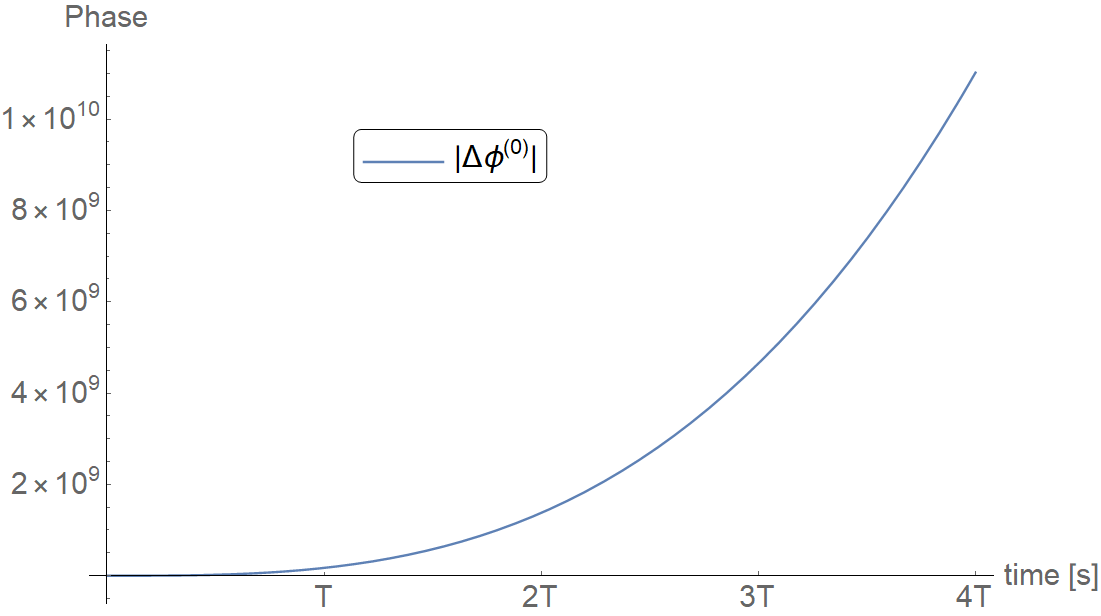
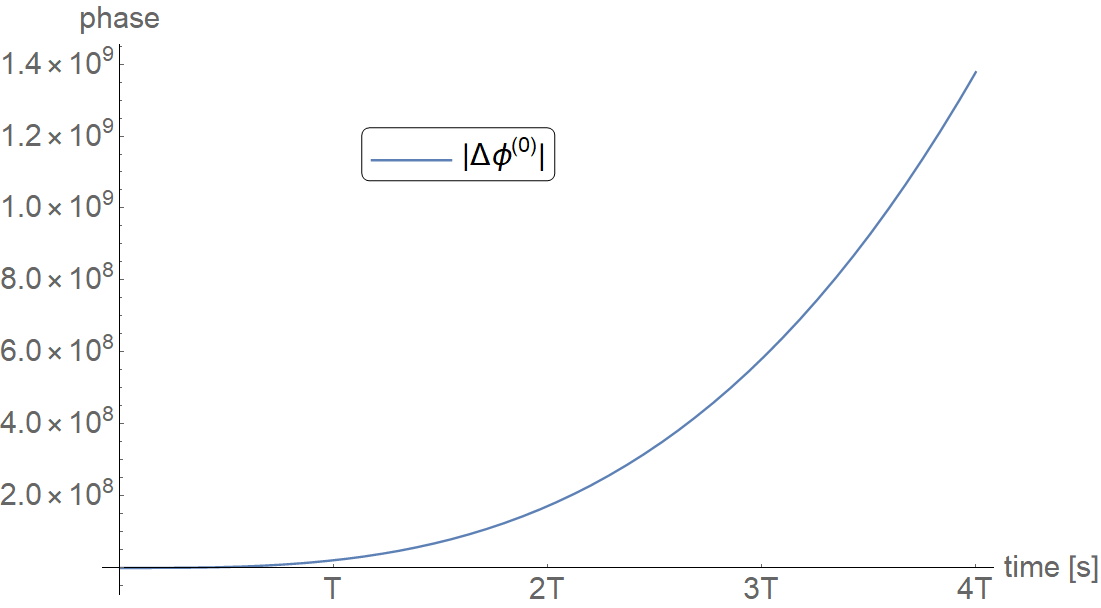
Fix order of magnitude 1st correction

diff --git a/main.tex b/main.tex
@@ -27,7 +27,7 @@
 {0pt}{3.25ex plus 1ex minus .2ex}{1.5ex plus .2ex}
 %%%%%%%%%%%%%%%%%%%%%%%%%%%%%%%%%%%%%%%%%%%%%%%%%%%
 
-\title{Gravimeter with Magnetic Gradient}
+\title{Gravimetry within a magnetic gradient field}
 \author{Edgar Zuniga}
 
 \begin{document}
@@ -696,7 +696,7 @@ These previous results can be cast into a more illuminating form by expanding th
 where we have used a super-index to indicate that these results correspond to the first-order correction.
 The comparison between the zeroth-order approximation and the first-order correction can be seen in Fig. \ref{phase_graph_first_order}.
 
-The correction given by the first-order approximation goes like $\beta ^2$. Therefore, the error made by considering the first-order approximation will be set by $\beta ^2$ which for the case of typical experimental values (see description of Fig. \ref{phase_graph_first_order}), has a value of $\beta ^2 \approx 1.3 \times 10^{-9}$. As we can see in the Fig. \ref{fig:gravimetry_signal_zeroth_order}, this gravimetry signal could allow us to measure $g$ with $10$ digits of precision, however, according to the Fig. \ref{fig:gravimetry_signal_first_minus_zeroth_order} the error due to the first-order correction would start affecting the seventh digit of the measurement. Therefore, in reality, we should be able to measure $g$ with $7$ digits of precision. This precision could be improved using a broader initial wave packet as can be seen in the definition \ref{beta_parameter}. For every order of magnitude that we increase the initial width of the wave packet, we gain $4$ digits of precision in the measurement because the correction goes like $\beta ^2$.
+The correction given by the first-order approximation goes like $\beta ^2$. Therefore, the error made by considering the first-order approximation will be set by $\beta ^2$ which for the case of typical experimental values (see description of Fig. \ref{phase_graph_first_order}), has a value of $\beta ^2 \approx 3.3 \times 10^{-10}$. As we can see in the Fig. \ref{fig:gravimetry_signal_zeroth_order}, this gravimetry signal could allow us to measure $g$ with $9$ digits of precision, however, according to the Fig. \ref{fig:gravimetry_signal_first_minus_zeroth_order} the error due to the first-order correction would start affecting the eighth digit of the measurement. Therefore, in reality, we should be able to measure $g$ with $8$ digits of precision. This precision is affected principally by the initial width of the wave packet as can be seen in the definition \ref{beta_parameter}. For every order of magnitude that we increase(decrease) the initial width of the wave packet, we gain(lose) $4$ digits of precision in the measurement because the correction goes like $\beta ^2$.
 
 \begin{figure}
      \centering
@@ -714,12 +714,9 @@ The correction given by the first-order approximation goes like $\beta ^2$. Ther
          \label{fig:gravimetry_signal_first_minus_zeroth_order}
      \end{subfigure}
      \hfill
-     \caption{Comparison of the gravimetry signal obtained by using the zeroth-order approximation ($\Delta \Phi ^{(0)}$) given by Eq. \ref{quantum_gravimetry_signal} versus the first-order correction ($\Delta \Phi ^{(1)}$) given by Eq. \ref{gravimetry_signal_first_order_approx_dimensional}. The period used to produce these graphs was $T=100ms$. Besides, we used $g=9.8m/s^{2}$, $\mu=9.27\times10^{-24} J/T$ (the Bohr magneton), $\eta=0.05 T/m$. Additionally, we consider $\ce{^{87}_{}Rb}$ atoms, so we have (\cite{Bunge1993}\cite{KAUSHALSK1970}) $M=1.45\times10^{-25}kg$, $\Delta W=2\pi\times6.835\times10^{9}s^{-1}$ ($\hbar \Delta W $ is the field-free ground state hyperfine energy splitting). Also, we use the approximations in Eqs. \ref{kappa_approx} and \ref{gamma_1_approx}. In addition, we take $p_{0}=0$, $z_{0}=0$, $\Delta Z(0)=1000\times10^{-6}m$, and take $z$ to be the final position of the center of the wave packet at the end of the experiment. The center of the wave packet was evaluated by using the Eq. \ref{xi_eq_motion}, where $x=\kappa z$. In this case, $(\sigma_{x, \tau_{0}})^{2} \approx 4.1 \times 10^{-8}$ and $\epsilon \tau \approx 1.5 \times 10^{-11} t$. Thus, for $t=100ms$, we have $\beta \approx 3.6 \times 10^{-5}$ and the expansion used in the Eqs. \ref{sigma_x_t1_first_order}-\ref{sigma_x_t3_first_order} is justified. Moreover, the gap between both approximations will be proportional to $\beta ^2 \approx 1.3 \times 10^{-9}$.}
+     \caption{Comparison of the gravimetry signal obtained by using the zeroth-order approximation ($\Delta \Phi ^{(0)}$) given by Eq. \ref{quantum_gravimetry_signal} versus the first-order correction ($\Delta \Phi ^{(1)}$) given by Eq. \ref{gravimetry_signal_first_order_approx_dimensional}. The period used to produce these graphs was $T=50ms$. Besides, we used $g=9.8m/s^{2}$, $\mu=9.27\times10^{-24} J/T$ (the Bohr magneton), $\eta=0.05 T/m$. Additionally, we consider $\ce{^{87}_{}Rb}$ atoms, so we have (\cite{Bunge1993}\cite{KAUSHALSK1970}) $M=1.45\times10^{-25}kg$, $\Delta W=2\pi\times6.835\times10^{9}s^{-1}$ ($\hbar \Delta W $ is the field-free ground state hyperfine energy splitting). Also, we use the approximations in Eqs. \ref{kappa_approx} and \ref{gamma_1_approx}. In addition, we take $p_{0}=0$, $z_{0}=0$, $\Delta Z(0)=1000\times10^{-6}m$, and take $z$ to be the final position of the center of the wave packet at the end of the experiment. The center of the wave packet was evaluated by using the Eq. \ref{xi_eq_motion}, where $x=\kappa z$. In this case, $(\sigma_{x, \tau_{0}})^{2} \approx 4.1 \times 10^{-8}$ and $\epsilon \tau \approx 1.5 \times 10^{-11} t$. Thus, for $t=50ms$, we have $\beta \approx 1.8 \times 10^{-5}$ and the expansion used in the Eqs. \ref{sigma_x_t1_first_order}-\ref{sigma_x_t3_first_order} is justified. Moreover, the gap between both approximations will be proportional to $\beta ^2 \approx 3.3 \times 10^{-10}$.}
      \label{phase_graph_first_order}
 \end{figure}
-
-
-
 
 
 \paragraph{Calculation of the Signal for Gravimetry in Momentum Space}
@@ -785,6 +782,39 @@ Thus, by using Eqs. \ref{epsilon}-\ref{q1_q2} and the approximations in Eqs. \re
 \end{equation}
 
 where were we have used $\tau\equiv \Delta W t$. We can notice that this result is independent of the momentum k and that it coincides with the result obtained in position space as expected.
+
+\subsubsection{A Revision to the Time Evolution of the Free Wave Packet}
+In this section we review the time evolution of a free gaussian wave packet. Then, we use this result to establish a correspondence with some terms of the wave packet of alkali-metal atoms subject to a constant gravitational field and interacting with a magnetic field given by Eq. \ref{wave_packet_non_dimensional_evolution}.
+
+We begin by considering a superposition of plane waves with different amplitudes, i.e.,
+
+\begin{equation}\label{free_wave_packet_momentum_space}
+    \Psi (x, t) =  \int_{- \infty}^{\infty} dk A(k) e^{i (kx-\omega t)}
+\end{equation}
+
+where $k$ is the wave number and the amplitude $A(k)$ is of the gaussian form
+
+\begin{equation}
+    A(k) = C e^{-\alpha(k-k_{0})^{2}/2}
+\end{equation}
+
+where $k_{0}$ is the center of the distribution and $C$ is a scale factor that we can use to adjust the amplitude of the wave packet. In order to compute the integral in Eq. \ref{free_wave_packet_momentum_space}, we need to establish the dependence between $\omega$ and $k$, i.e., the dispersion relation. We will consider the dispersion relation to be sharply peaked about $k=k_{0}$ and use a Taylor expansion about this point to second order, i.e.,
+
+\begin{equation}
+    \omega(k) = \omega(k_{0}) + (k-k_{0})\upsilon_{g} + \frac{1}{2}(k-k_{0})^{2} \beta
+\end{equation}
+
+where $\upsilon_{g}$ is the group velocity defined as
+
+\begin{equation}
+    \upsilon_{g} \equiv \bigg(\frac{\partial \omega(k)}{\partial k}\bigg)_{k=k_{0}}
+\end{equation}
+
+and $\beta$ is given by
+
+\begin{equation}
+    \beta \equiv \bigg(\frac{\partial^2 \omega(k)}{\partial k^2}\bigg)_{k=k_{0}}
+\end{equation}
 
 \bibliographystyle{plain}
 \bibliography{cites.bib}
